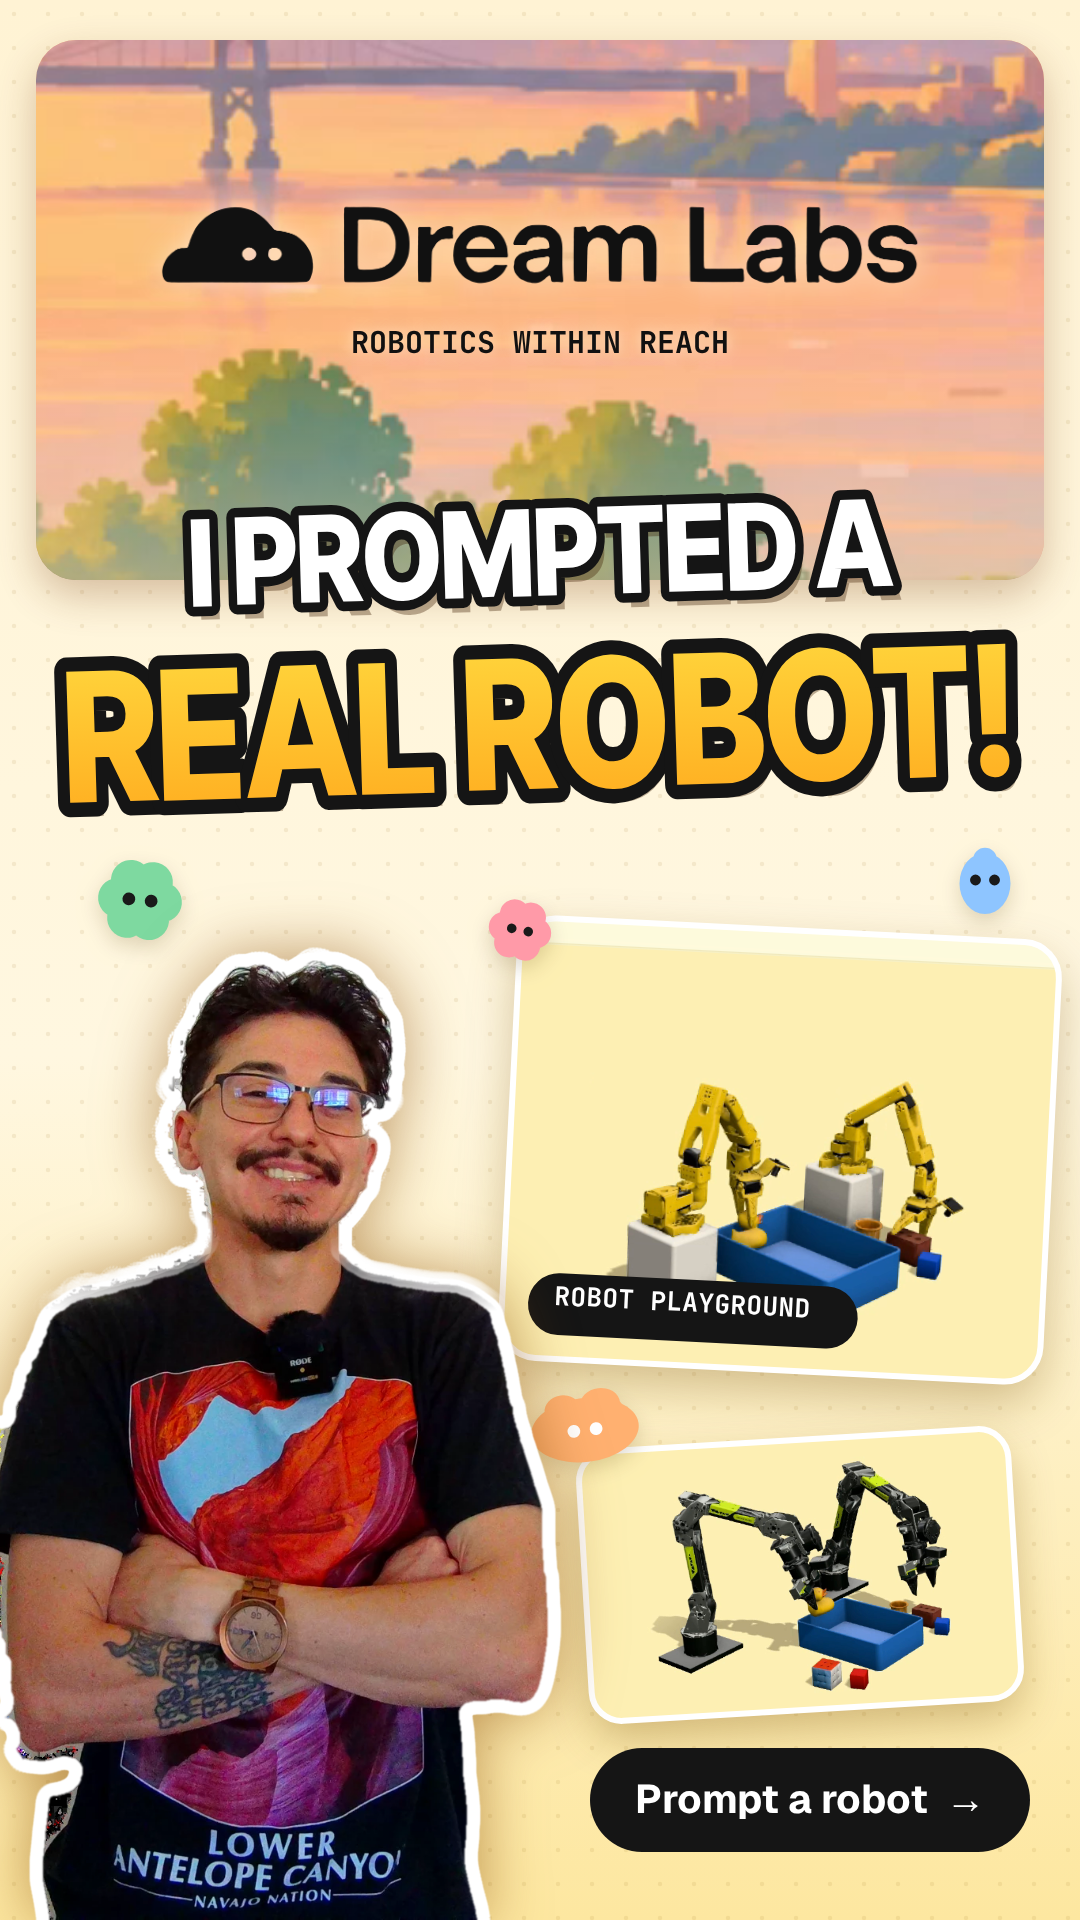
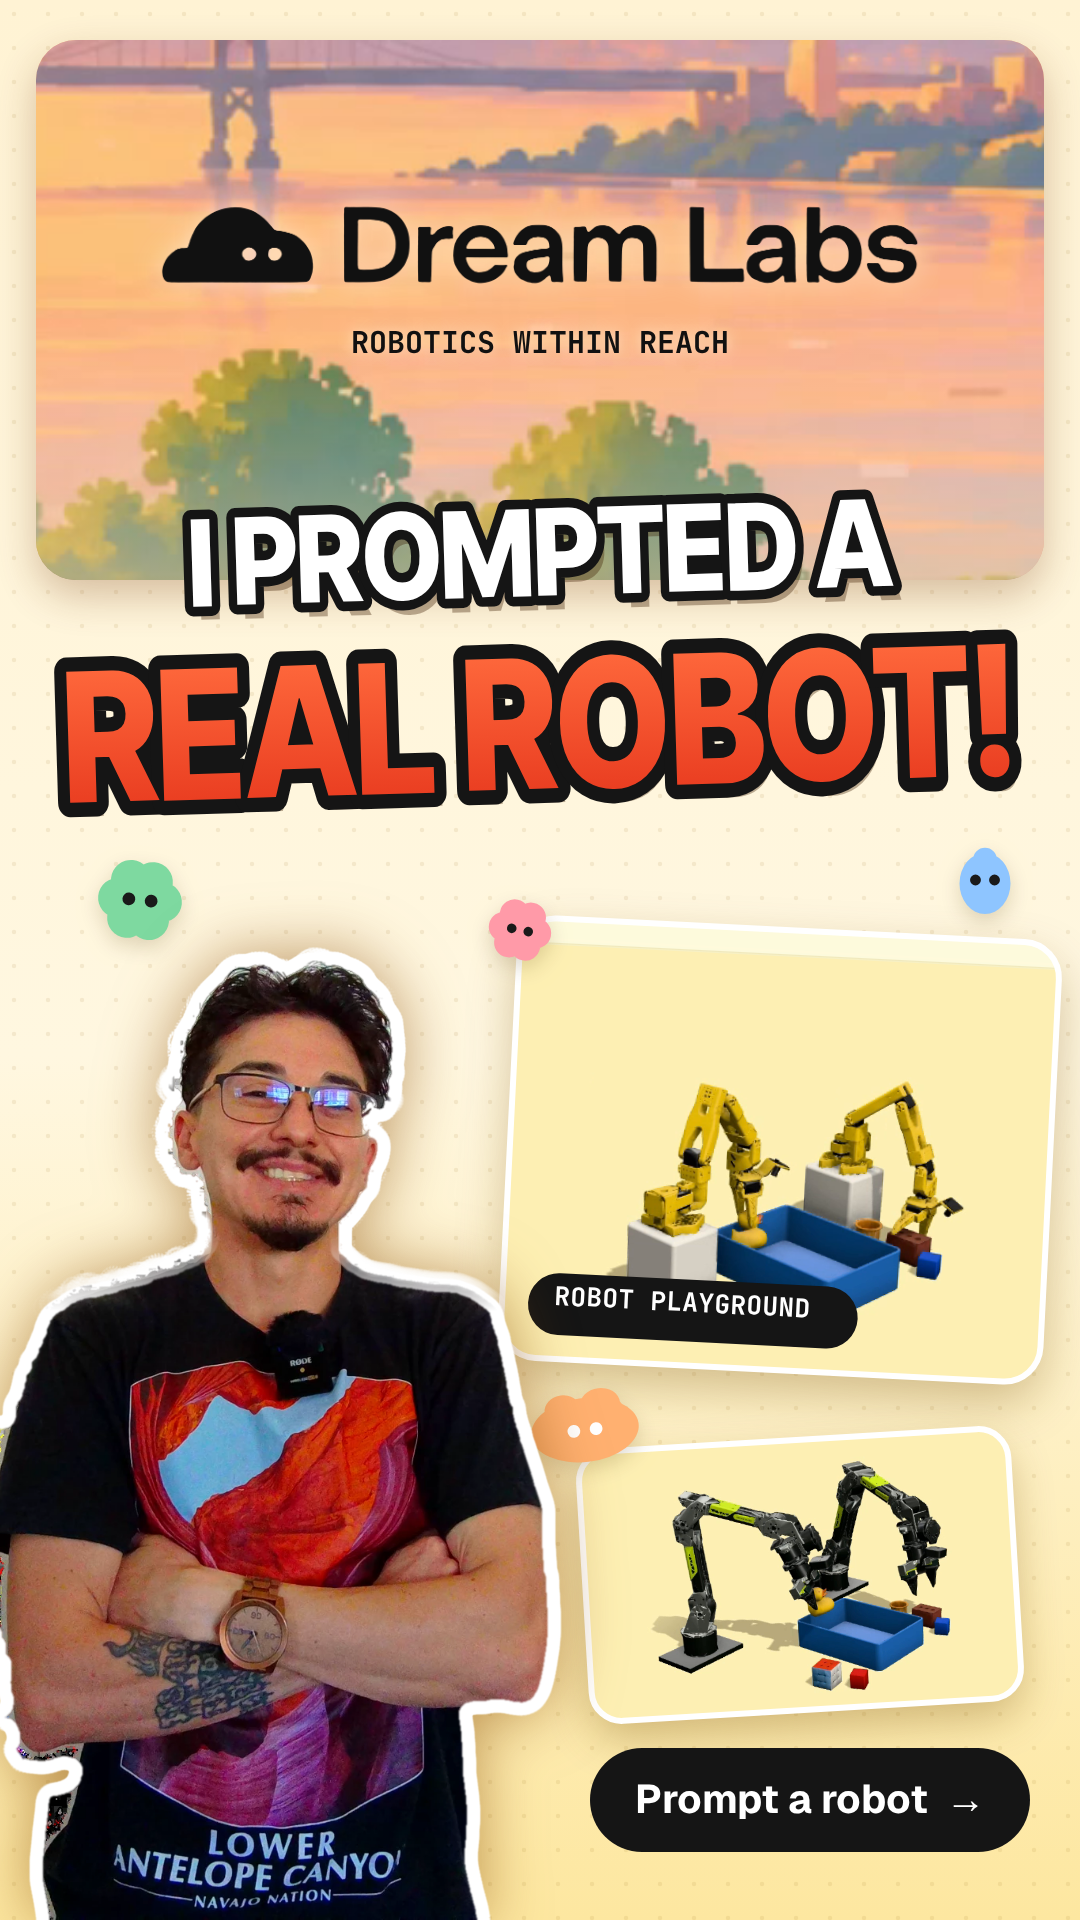
DreamLabs thumbnail: REAL ROBOT! in orange-red so it stands off the cream background
Claude-Session: https://claude.ai/code/session_01NSJvdmHsHoazKiuuGVQfMY

Changed region(s): [[0.4278, 0.3125, 0.9472, 0.4375], [0.0611, 0.3438, 0.3972, 0.4375]]

diff --git a/story/dreamlabs/thumb.html b/story/dreamlabs/thumb.html
@@ -39,7 +39,7 @@
   c.restore();
   // ---- headline (crosses the bottom edge of the sunset card)
   word('I PROMPTED A', W / 2, 560, 120, '#FFFFFF', -0.03);
-  word('REAL ROBOT!', W / 2, 735, 180, [YEL, '#FFAA1E'], -0.03, 0.84);
+  word('REAL ROBOT!', W / 2, 735, 180, ['#FF6A3D', '#E5341B'], -0.03, 0.84);
   // ---- robot card (the arms from the site) with the site's playground chip
   c.save(); c.translate(780, 1150); c.rotate(0.05); const cw = 540, ch = 440;
   c.shadowColor = 'rgba(120,80,10,0.35)'; c.shadowBlur = 50; c.shadowOffsetY = 20; rr(-cw / 2, -ch / 2, cw, ch, 36); c.fillStyle = '#FDEFB4'; c.fill(); c.shadowColor = 'transparent';
